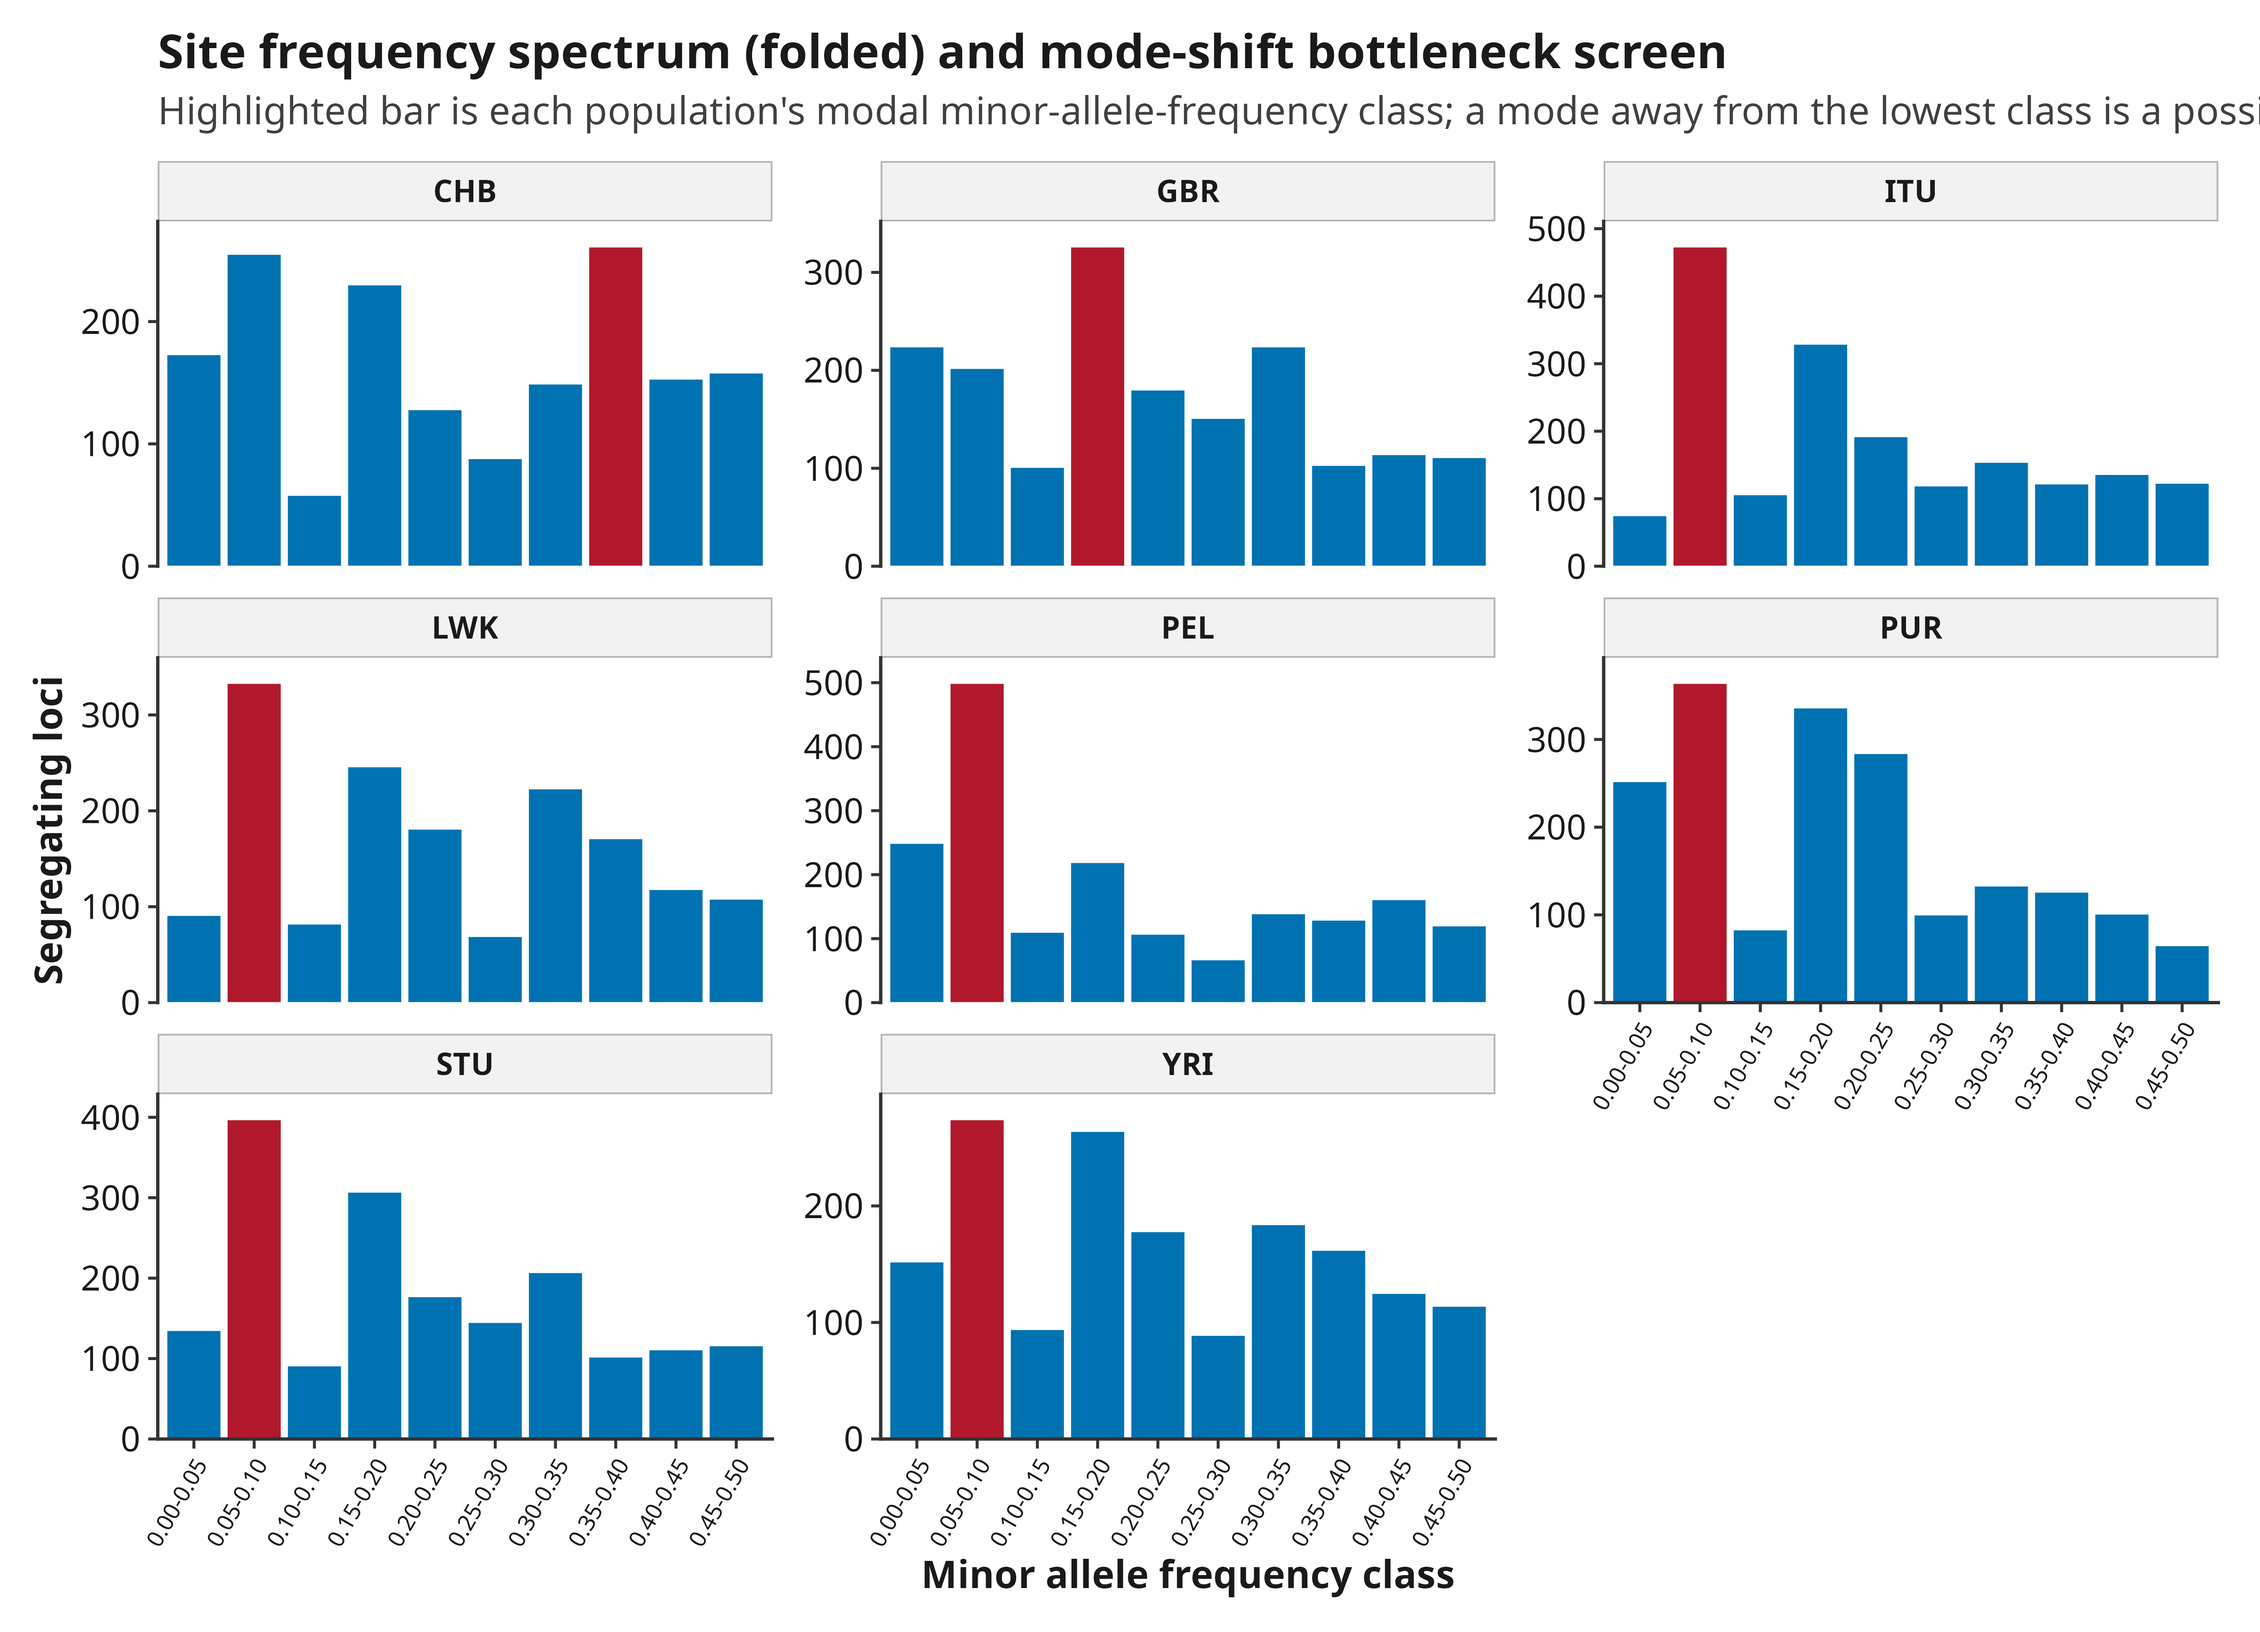
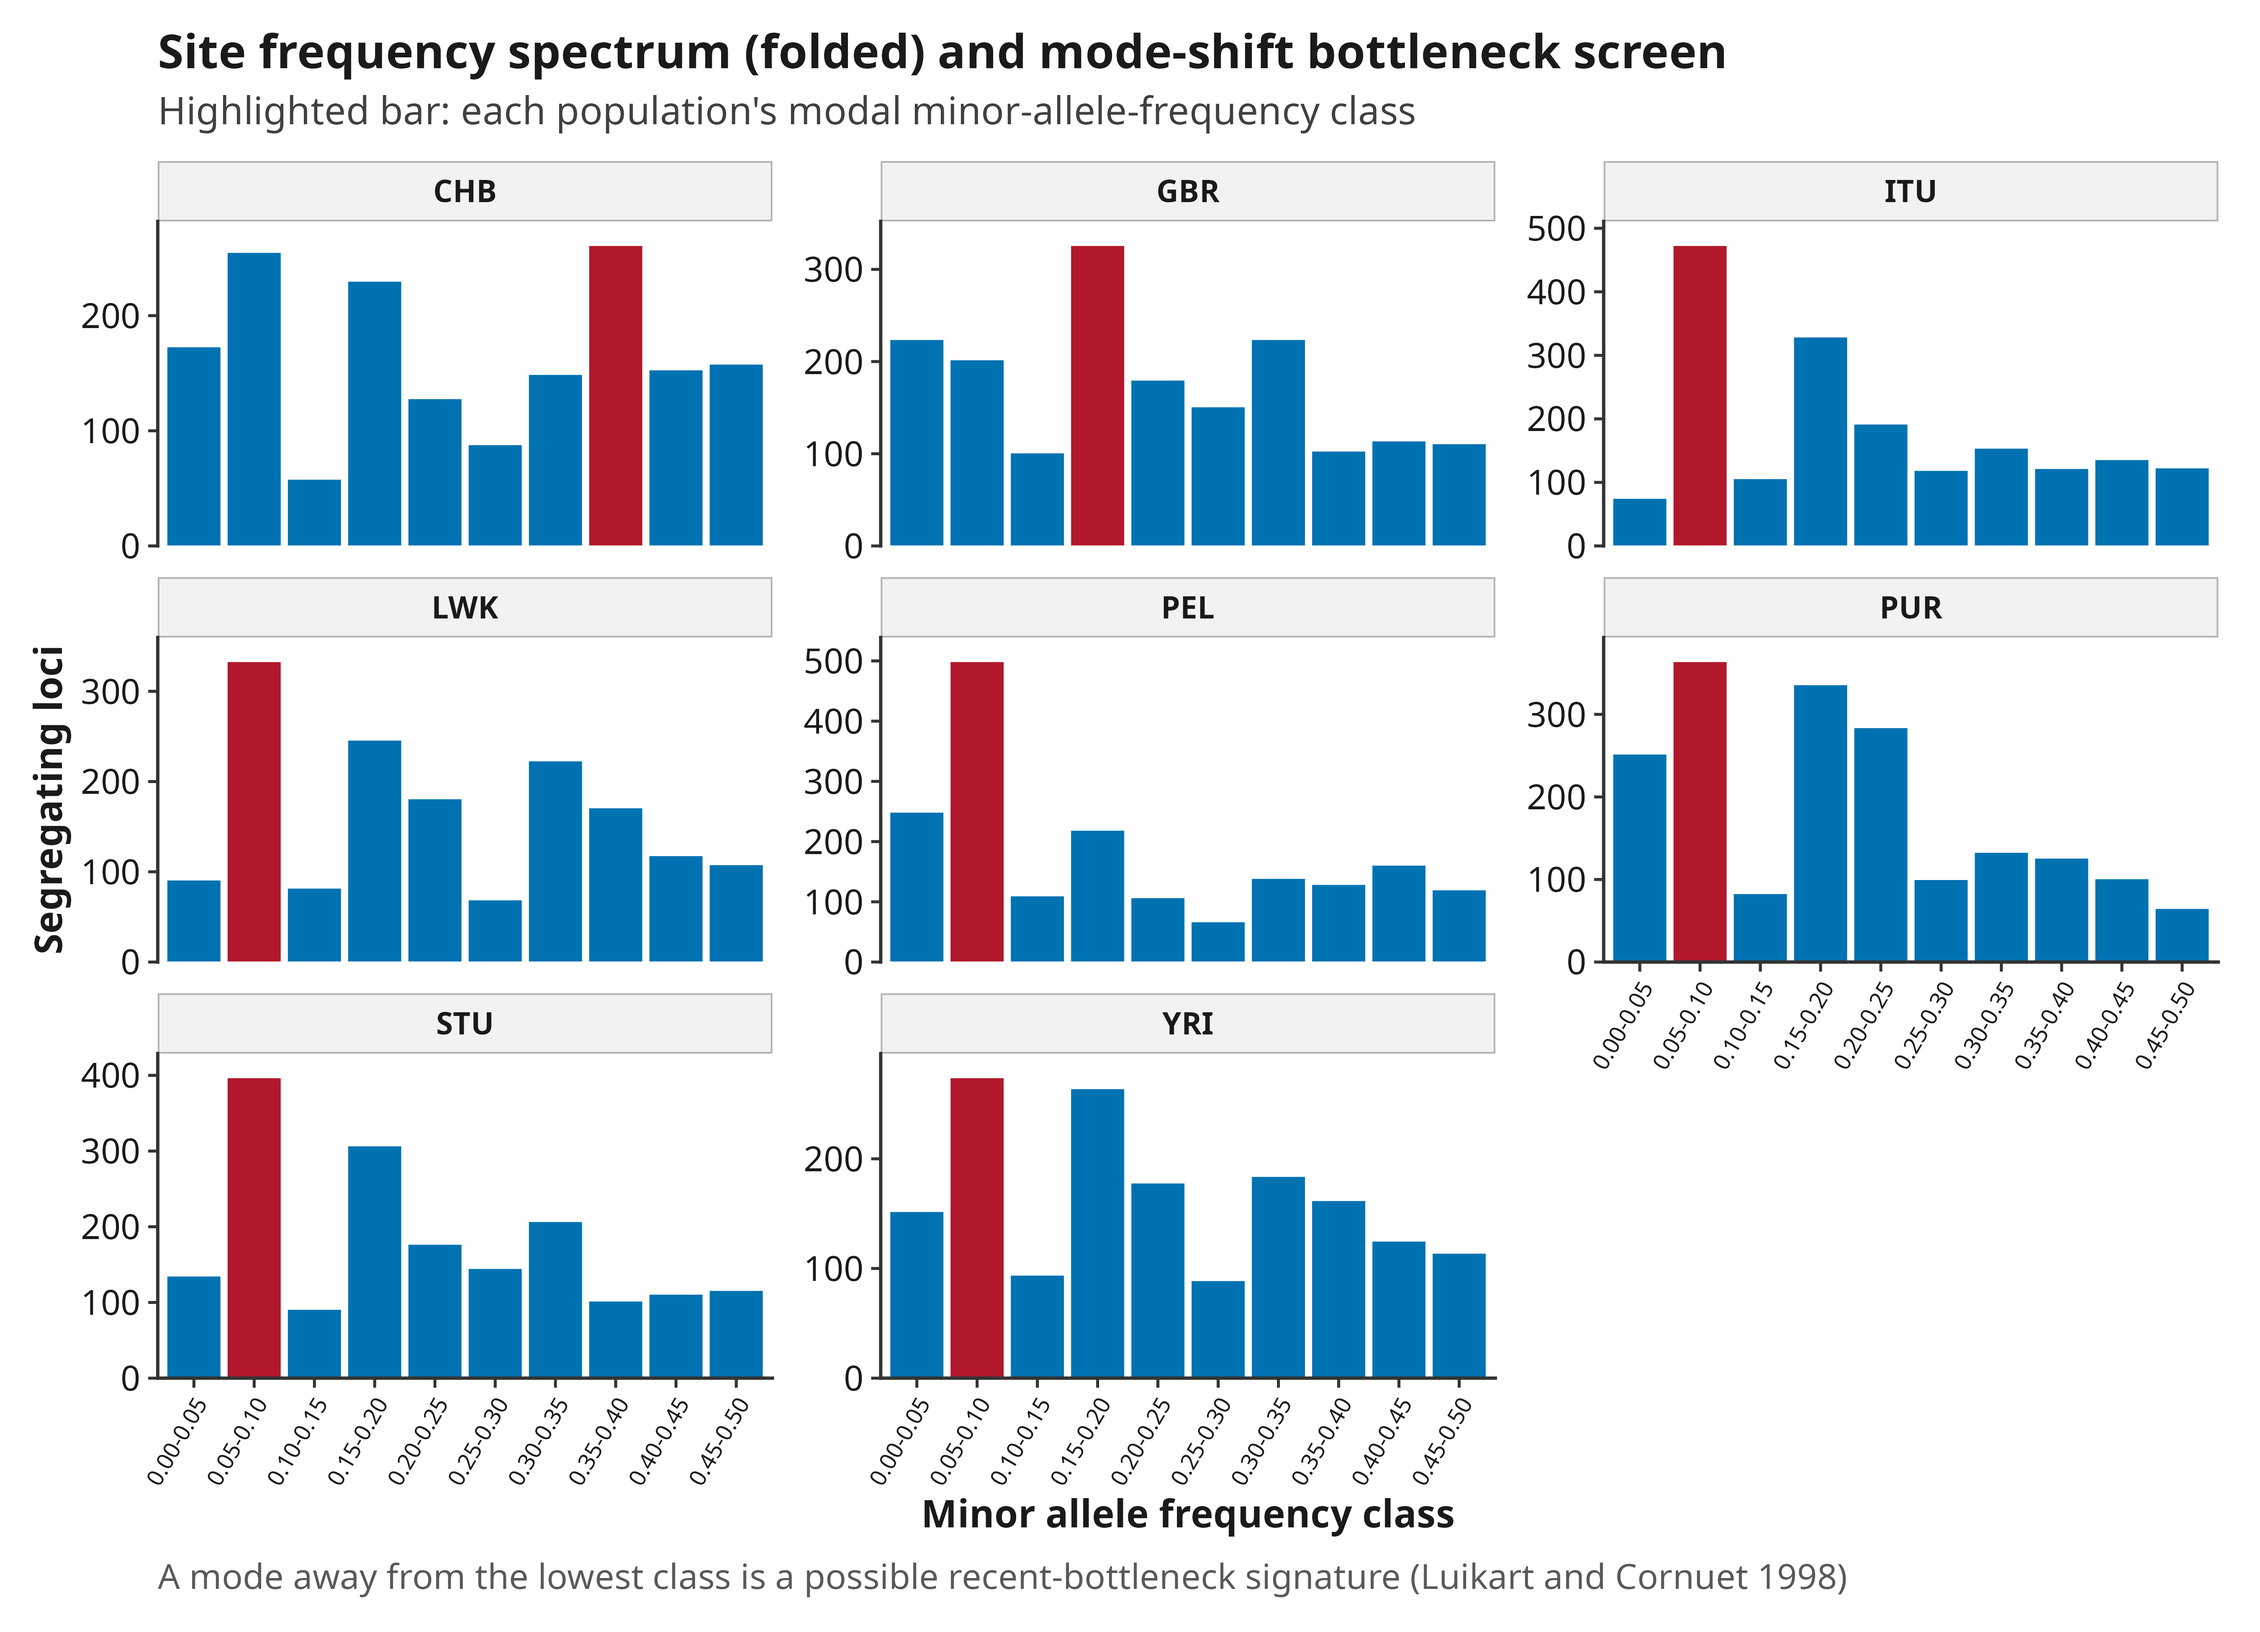
Fix clipped subtitle in the site frequency spectrum figure
plot_bottleneck()'s subtitle combined the practical description and the method
citation into one 175-character string, which overflowed the plot width -- ggplot2
does not wrap subtitle text, so it was silently cut off mid-sentence. Split into a
short subtitle plus a caption, matching plot_ibd()'s existing pattern. Regenerated
the figure and example PDF from the exact cached analysis_results.rds that shipped
the original (same underlying data, only the label layout changed).

diff --git a/docs/ROADMAP.md b/docs/ROADMAP.md
@@ -245,6 +245,8 @@ The maintainer chose to add features before making the 1.0 decision above. This 
 
 - **2026-08-09 -- Added the genome-scan figures to the wiki and vignette.** The "Genome scans" section was text-only despite genome scans being a default-on module already shown in the committed report. Real quickstart values: FST windows range 0.051-0.172; window diversity ranges 0.099-0.398 across 8 populations. Already present in the committed example PDF's automatic figure gallery; only the hand-curated wiki/vignette selection was missing them. See `NEWS.md` for full detail.
 
+- **2026-08-11 -- Fixed a user-reported subtitle-clipping bug in the new site frequency spectrum figure.** `plot_bottleneck()`'s combined subtitle (175 characters, description + citation) overflowed the plot width; ggplot2 does not wrap subtitle text, so it was silently cut off mid-sentence in the wiki and the committed PDF. Split into a short subtitle and a caption, matching `plot_ibd()`'s existing pattern. Verified visually by re-rendering from the exact cached `analysis_results.rds` that shipped the original (identical data, only the label layout changed); committed example PDF regenerated from the same cache, unchanged at 140 pages. No public API changes. See `NEWS.md` for full detail.
+
 - **2026-08-10 -- Added the effective number of alleles (Ae) to the diversity module and a site frequency spectrum with mode-shift bottleneck screen.** Ae = 1/(1-He_unbiased) (Kimura and Crow 1964) is now computed per locus and averaged per population (`effective_alleles`/`mean_effective_alleles`), no new table or figure. New `bottleneck` module bins each population's segregating loci by folded minor allele frequency and applies the mode-shift test (Luikart and Cornuet 1998): a mode shifted away from the lowest frequency class is a possible recent-bottleneck signature, reported qualitatively (not a p-value), and -- unlike the classic heterozygosity-excess bottleneck test -- makes no assumption about the locus mutation model, a clean fit for biallelic SNP data. New `48_site_frequency_spectrum.tsv`/figure and `49_bottleneck_mode_shift.tsv`. Important, honest caveat found and documented: with this package's default `qc.maf = 0.05` filter, all 8 quickstart populations show a mode-shifted spectrum, but re-running with `qc.maf = 0` shows only 3 of 8 are genuinely mode-shifted -- the default MAF filter systematically removes population-rare variants before this test runs, a real, general artifact source for any SFS-based method on MAF-filtered data, the same caveat class already documented for Tajima's D. Refreshed the public API baseline (636 -> 637 entries). Committed example PDF now 140 pages. No public API changes beyond the new `bottleneck_module_spec` export. See `NEWS.md` for full detail.
 
 - **2026-08-10 -- Added Wright's (1931) island-model Nm (gene flow) to the `fst` module and a frequency-based population self-assignment test.** Nm = (1-FST)/(4*FST) is now computed alongside every FST estimate (`global_nm` on `17_global_FST.tsv`, `nm` on `18_pairwise_FST.tsv`), no new figure -- a direct, monotonic transform of the FST already shown in the existing heatmap. New `population_assignment` module (Paetkau et al. 1995, 2004; leave-one-out corrected per Rannala and Mountain 1997): scores each sample's genotype log-likelihood under every population's allele frequencies (assuming HWE, using the LD-pruned marker set since the per-locus likelihoods are multiplied assuming independence), and flags samples whose best-likelihood population differs from their recorded label as candidate migrants or metadata errors. New `47_population_assignment.tsv`/figure (a recorded-vs-assigned confusion-matrix heatmap). Real quickstart result: global Nm = 2.48 (FST = 0.0915); the two closest population pairs by FST/Nm (ITU-STU and LWK-YRI) are independently confirmed as the two most confusable pairs in the assignment test (31 of 54 total mismatches, 57%) -- a real cross-method validation using an entirely different statistical approach. Verified with hand-computed leave-one-out fixtures pinning exact log-likelihood values and mismatch flags. Refreshed the public API baseline (635 -> 636 entries). Committed example PDF now 139 pages. No public API changes beyond the new `population_assignment_module_spec` export. See `NEWS.md` for full detail.

diff --git a/inst/doc/ROADMAP.md b/inst/doc/ROADMAP.md
@@ -245,6 +245,8 @@ The maintainer chose to add features before making the 1.0 decision above. This 
 
 - **2026-08-09 -- Added the genome-scan figures to the wiki and vignette.** The "Genome scans" section was text-only despite genome scans being a default-on module already shown in the committed report. Real quickstart values: FST windows range 0.051-0.172; window diversity ranges 0.099-0.398 across 8 populations. Already present in the committed example PDF's automatic figure gallery; only the hand-curated wiki/vignette selection was missing them. See `NEWS.md` for full detail.
 
+- **2026-08-11 -- Fixed a user-reported subtitle-clipping bug in the new site frequency spectrum figure.** `plot_bottleneck()`'s combined subtitle (175 characters, description + citation) overflowed the plot width; ggplot2 does not wrap subtitle text, so it was silently cut off mid-sentence in the wiki and the committed PDF. Split into a short subtitle and a caption, matching `plot_ibd()`'s existing pattern. Verified visually by re-rendering from the exact cached `analysis_results.rds` that shipped the original (identical data, only the label layout changed); committed example PDF regenerated from the same cache, unchanged at 140 pages. No public API changes. See `NEWS.md` for full detail.
+
 - **2026-08-10 -- Added the effective number of alleles (Ae) to the diversity module and a site frequency spectrum with mode-shift bottleneck screen.** Ae = 1/(1-He_unbiased) (Kimura and Crow 1964) is now computed per locus and averaged per population (`effective_alleles`/`mean_effective_alleles`), no new table or figure. New `bottleneck` module bins each population's segregating loci by folded minor allele frequency and applies the mode-shift test (Luikart and Cornuet 1998): a mode shifted away from the lowest frequency class is a possible recent-bottleneck signature, reported qualitatively (not a p-value), and -- unlike the classic heterozygosity-excess bottleneck test -- makes no assumption about the locus mutation model, a clean fit for biallelic SNP data. New `48_site_frequency_spectrum.tsv`/figure and `49_bottleneck_mode_shift.tsv`. Important, honest caveat found and documented: with this package's default `qc.maf = 0.05` filter, all 8 quickstart populations show a mode-shifted spectrum, but re-running with `qc.maf = 0` shows only 3 of 8 are genuinely mode-shifted -- the default MAF filter systematically removes population-rare variants before this test runs, a real, general artifact source for any SFS-based method on MAF-filtered data, the same caveat class already documented for Tajima's D. Refreshed the public API baseline (636 -> 637 entries). Committed example PDF now 140 pages. No public API changes beyond the new `bottleneck_module_spec` export. See `NEWS.md` for full detail.
 
 - **2026-08-10 -- Added Wright's (1931) island-model Nm (gene flow) to the `fst` module and a frequency-based population self-assignment test.** Nm = (1-FST)/(4*FST) is now computed alongside every FST estimate (`global_nm` on `17_global_FST.tsv`, `nm` on `18_pairwise_FST.tsv`), no new figure -- a direct, monotonic transform of the FST already shown in the existing heatmap. New `population_assignment` module (Paetkau et al. 1995, 2004; leave-one-out corrected per Rannala and Mountain 1997): scores each sample's genotype log-likelihood under every population's allele frequencies (assuming HWE, using the LD-pruned marker set since the per-locus likelihoods are multiplied assuming independence), and flags samples whose best-likelihood population differs from their recorded label as candidate migrants or metadata errors. New `47_population_assignment.tsv`/figure (a recorded-vs-assigned confusion-matrix heatmap). Real quickstart result: global Nm = 2.48 (FST = 0.0915); the two closest population pairs by FST/Nm (ITU-STU and LWK-YRI) are independently confirmed as the two most confusable pairs in the assignment test (31 of 54 total mismatches, 57%) -- a real cross-method validation using an entirely different statistical approach. Verified with hand-computed leave-one-out fixtures pinning exact log-likelihood values and mismatch flags. Refreshed the public API baseline (635 -> 636 entries). Committed example PDF now 139 pages. No public API changes beyond the new `population_assignment_module_spec` export. See `NEWS.md` for full detail.

diff --git a/NEWS.md b/NEWS.md
@@ -1,5 +1,7 @@
 # popgenVCF 0.10.0
 
+- Fixed a real, user-reported rendering bug in the new `48_site_frequency_spectrum` figure (`plot_bottleneck()`, `R/bottleneck.R`): the subtitle text was long enough (175 characters, combining the practical description and the method citation into one `paste()`d string) to overflow the plot width, and ggplot2 does not wrap subtitle text automatically -- it was silently clipped mid-sentence in both the wiki and the committed example PDF. Fixed by splitting it into a short subtitle (the practical description) and a caption (the interpretation note plus the Luikart and Cornuet 1998 citation), matching the subtitle/caption split this codebase's `plot_ibd()` already uses for the same reason. Verified visually by re-rendering the figure from the exact already-cached `analysis_results.rds` of the reference run that shipped it (guaranteeing identical underlying data, only the label layout changed) and confirming both lines now render in full. Regenerated the committed example PDF from that same cached results object (`render_report()`, unchanged page count, 140 pages) rather than re-running the whole pipeline, since no analysis output changed. No public API changes.
+
 - Added two more genuine analysis gaps found by the same standard-toolkit audit: Kimura and Crow's (1964) effective number of alleles (Ae) alongside the existing diversity metrics, and a folded site frequency spectrum with the mode-shift bottleneck-detection test (Luikart and Cornuet 1998).
 
   **Effective number of alleles (Ae).** `compute_diversity()` (`R/diversity.R`) now computes `Ae = 1 / (1 - He_unbiased)` per locus (a new `effective_alleles` column on `10_population_locus_diversity.tsv`) and its per-population mean (a new `mean_effective_alleles` column on `09_population_diversity.tsv`, averaging the per-locus values rather than transforming the mean He, matching GenAlEx's convention -- these are not interchangeable by Jensen's inequality). No new table, no new figure -- a small, low-risk addition alongside the existing observed/expected heterozygosity and allelic richness columns. `He_unbiased`'s small-sample bias correction can legitimately push it to or past 1 for very small per-population samples, in which case `Ae = Inf` is reported rather than a fabricated finite number (matching the Nm/Ne(LD) convention); this is a real, expected property of the *unbiased* He estimator, not a bug -- caught while writing the validator: an initial `effective_alleles <= 2` bound (mirroring allelic richness's genuine combinatorial ceiling) is actually **not** a valid constraint for Ae, since it is a bias-corrected continuous estimator whose point estimate can exceed the biallelic true-parameter bound under small-sample sampling noise (the same class of behavior already accepted for W&C84 FST going slightly negative elsewhere in this codebase); the validator checks `Ae >= 1` instead, the one bound that always holds. Verified with `test-allelic-richness.R`, reusing its existing hand-computed fixture: exact per-locus Ae values pinned by hand, a dedicated single-heterozygous-call fixture confirming the `Ae = Inf` edge case, and the corrected validator bound. Real quickstart result: `mean_effective_alleles` ranges 1.44-1.51 across the 8 populations. No public API changes.
